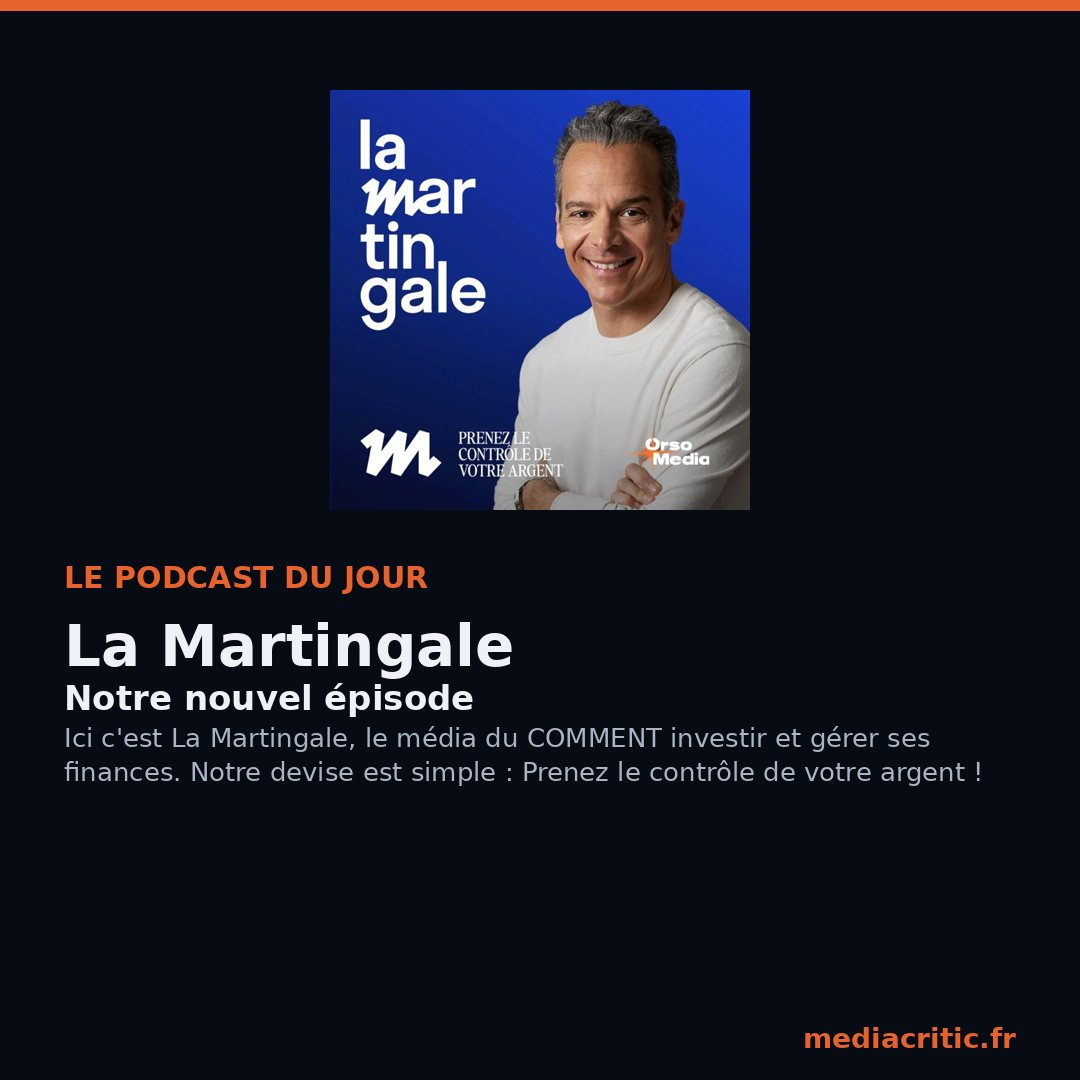
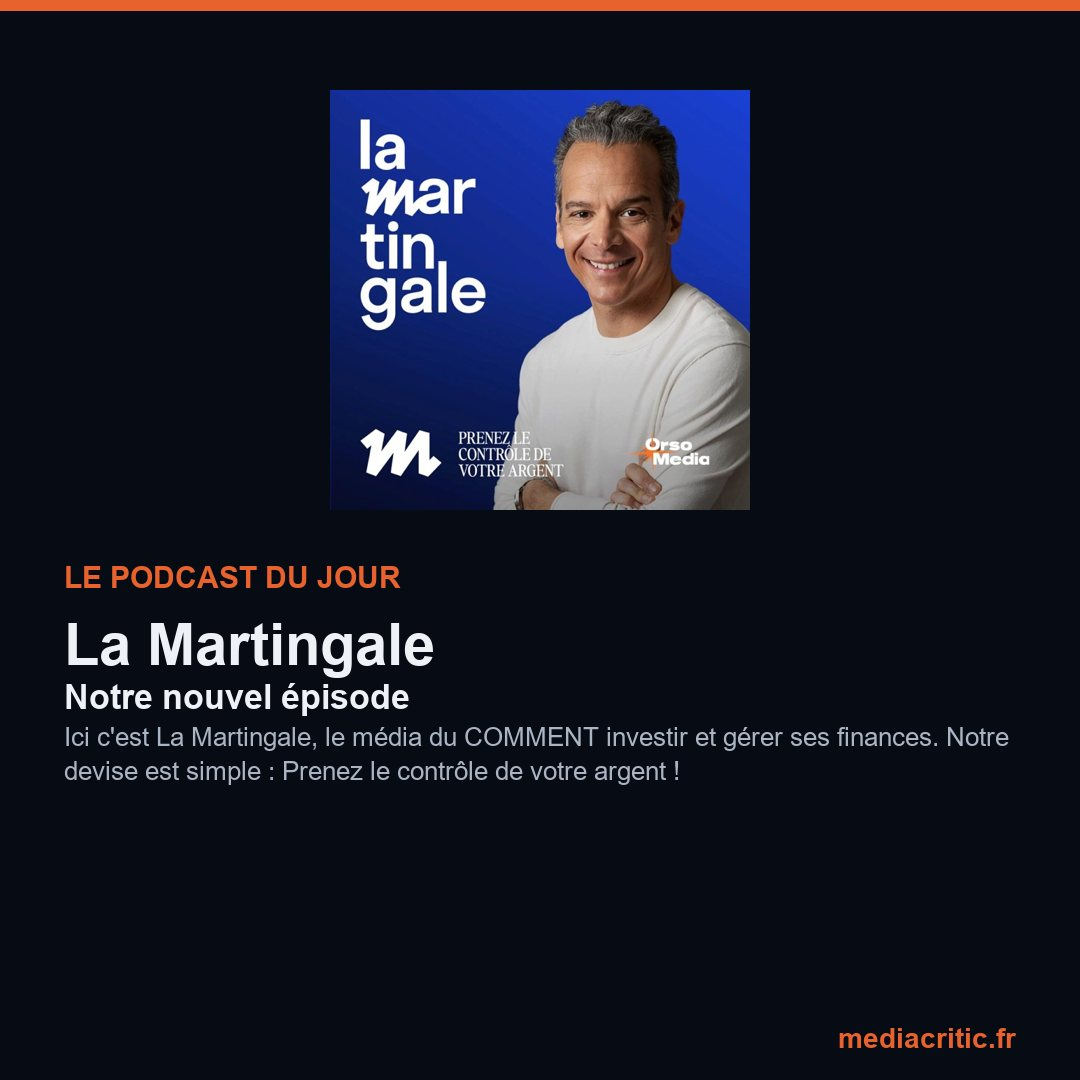
Podcast du jour : emission de l'episode 54

Changed region(s): [[0.0611, 0.5806, 0.9472, 0.7333], [0.0611, 0.5194, 0.3972, 0.55], [0.7333, 0.9472, 0.9472, 0.9778]]

diff --git a/podcast-du-jour.html b/podcast-du-jour.html
@@ -40,7 +40,7 @@ a{color:inherit}
 <p>Chaque jour, l'actu qui fait le buzz et l'émission de <a href="catalogue.html">notre
 annuaire</a> qui en parle : un podcast ou une chaîne YouTube francophone à écouter pour aller
 plus loin que les gros titres.</p>
-<section class="mcj-zone"><article class="mcj" aria-label="🔥 Le podcast du jour"><a class="mcj-cover" href="fiches/la-martingale.html"><img src="https://is1-ssl.mzstatic.com/image/thumb/Podcasts211/v4/5f/f7/ad/5ff7ad4f-8218-c9c9-c5d0-d15b05c9757d/mza_4765272428608991403.jpg/600x600bb.jpg" alt="La Martingale" width="160" height="160" loading="eager" decoding="async" /></a><div class="mcj-txt"><p class="mcj-eyebrow">🔥 Le podcast du jour · 15 novembre</p><h2 class="mcj-titre"><a href="fiches/la-martingale.html">La Martingale</a></h2><p class="mcj-labels"></p><div class="mcj-raisons"><p class="mcj-raisons-t">Pourquoi ce choix</p><div class="mcj-s"><p class="mcj-s-t">L&#x27;actu qui a fait le buzz</p><p class="mcj-s-p">Notre nouvel épisode sort aujourd&#x27;hui : l&#x27;épisode 54 de MediaCritic est consacré à La Martingale.</p></div><div class="mcj-s"><p class="mcj-s-t">L&#x27;émission</p><p class="mcj-s-p">La Martingale — podcast de Orso Media. Ici c&#x27;est La Martingale, le média du COMMENT investir et gérer ses finances. Notre devise est simple : Prenez le contrôle de votre argent !</p></div><div class="mcj-s"><p class="mcj-s-t">Pourquoi l&#x27;écouter</p><p class="mcj-s-p">Parce que nous venons de lui consacrer l&#x27;épisode 54 de MediaCritic, à écouter dès aujourd&#x27;hui.</p></div></div><div class="mcj-actions"><a class="mcj-btn mcj-btn-1" href="https://www.deezer.com/fr/episode/963336211" target="_blank" rel="noopener">▶ Notre critique</a><a class="mcj-btn" href="fiches/la-martingale.html">Voir la fiche</a></div></div></article></section>
+<section class="mcj-zone"><article class="mcj" aria-label="🔥 Le podcast du jour"><a class="mcj-cover" href="fiches/la-martingale.html"><img src="https://is1-ssl.mzstatic.com/image/thumb/Podcasts211/v4/5f/f7/ad/5ff7ad4f-8218-c9c9-c5d0-d15b05c9757d/mza_4765272428608991403.jpg/600x600bb.jpg" alt="La Martingale" width="160" height="160" loading="eager" decoding="async" /></a><div class="mcj-txt"><p class="mcj-eyebrow">🔥 Le podcast du jour · 15 novembre</p><h2 class="mcj-titre"><a href="fiches/la-martingale.html">La Martingale</a></h2><p class="mcj-labels"><span class="mcj-note">★ 8/10 MediaCritic</span></p><div class="mcj-raisons"><p class="mcj-raisons-t">Pourquoi ce choix</p><div class="mcj-s"><p class="mcj-s-t">L&#x27;actu qui a fait le buzz</p><p class="mcj-s-p">Notre nouvel épisode sort aujourd&#x27;hui : l&#x27;épisode 54 de MediaCritic est consacré à La Martingale.</p></div><div class="mcj-s"><p class="mcj-s-t">L&#x27;émission</p><p class="mcj-s-p">La Martingale — podcast de Orso Media. Ici c&#x27;est La Martingale, le média du COMMENT investir et gérer ses finances. Notre devise est simple : Prenez le contrôle de votre argent !</p></div><div class="mcj-s"><p class="mcj-s-t">Pourquoi l&#x27;écouter</p><p class="mcj-s-p">Parce que nous venons de lui consacrer l&#x27;épisode 54 de MediaCritic, à écouter dès aujourd&#x27;hui. Notre note : 8/10. Notre verdict : « Le podcast qui a rendu l&#x27;argent discutable à voix haute. Pas un conseil en investissement : un cours de vocabulaire. Et quand on comprend le vocabulaire, on se fait moins avoir. »</p></div></div><div class="mcj-actions"><a class="mcj-btn mcj-btn-1" href="https://www.mediacritic.fr/episodes/la-martingale.html" target="_blank" rel="noopener">▶ Notre critique</a><a class="mcj-btn" href="fiches/la-martingale.html">Voir la fiche</a></div></div></article></section>
 <section class="mcj-archive"><h2>Les sélections précédentes</h2><ol class="mcj-liste"><li class="mcj-l"><span class="mcj-l-date">14 novembre 2026</span><a href="fiches/rothen-s-enflamme.html">Rothen s&#x27;enflamme</a><span class="mcj-l-quoi">« Mauricio Pochettino » — LÉGENDE OU PAS LÉGENDE : MAURICIO POCHETTINO</span></li><li class="mcj-l"><span class="mcj-l-date">13 novembre 2026</span><a href="fiches/so-foot-arena.html">So Foot Arena</a><a class="mc-indep" href="podcasts-independants.html" title="Publié hors radios, presse, studios et institutions : voir le guide">Indépendant</a><span class="mcj-l-quoi">« Zinédine Zidane » — S03 - EP07 : Zinédine Zidane en état de grâce</span></li><li class="mcj-l"><span class="mcj-l-date">12 novembre 2026</span><a href="fiches/le-rendez-vous-tech.html">Le Rendez-vous Tech</a><a class="mc-indep" href="podcasts-independants.html" title="Publié hors radios, presse, studios et institutions : voir le guide">Indépendant</a><span class="mcj-l-quoi">« Jensen Huang » — Jensen Huang, l’agente qui m’aimait – RDV Tech</span></li><li class="mcj-l"><span class="mcj-l-date">11 novembre 2026</span><a href="fiches/les-nuits-du-cazarre-enchaine.html">Les nuits du Cazarre enchaîné</a><span class="mcj-l-quoi">« Teddy Riner » — Viens défier Cazarre du 10 novembre - Quiz Teddy Riner – 10/11</span></li><li class="mcj-l"><span class="mcj-l-date">10 novembre 2026</span><a href="fiches/les-gens-qui-doutent.html">Les Gens Qui Doutent</a><a class="mc-indep" href="podcasts-independants.html" title="Publié hors radios, presse, studios et institutions : voir le guide">Indépendant</a><span class="mcj-l-quoi">« Albert Dupontel » — Albert Dupontel : « La frustration d’un artiste, c’est de ressentir plus qu’il ne peut exprimer »</span></li><li class="mcj-l"><span class="mcj-l-date">9 novembre 2026</span><a href="fiches/notre-histoire.html">Notre Histoire</a><a class="mc-indep" href="podcasts-independants.html" title="Publié hors radios, presse, studios et institutions : voir le guide">Indépendant</a><span class="mcj-l-quoi">« Jean-Luc Mélenchon » — Jean-Luc Mélenchon et sa jeunesse : les coulisses d’un combat politique | Documentaire Politique AMP</span></li><li class="mcj-l"><span class="mcj-l-date">8 novembre 2026</span><a href="fiches/generation-do-it-yourself.html">Génération Do It Yourself</a><span class="mcj-l-quoi">MediaCritic, épisode 53</span></li><li class="mcj-l"><span class="mcj-l-date">7 novembre 2026</span><a href="fiches/le-kop-de-scipion.html">Le Kop de Scipion</a><a class="mc-indep" href="podcasts-independants.html" title="Publié hors radios, presse, studios et institutions : voir le guide">Indépendant</a><span class="mcj-l-quoi">« Pablo Pagis » — La liste des Bleus : grande première pour Pablo Pagis</span></li><li class="mcj-l"><span class="mcj-l-date">6 novembre 2026</span><a href="fiches/lionel.html">Lionel</a><a class="mc-indep" href="podcasts-independants.html" title="Publié hors radios, presse, studios et institutions : voir le guide">Indépendant</a><span class="mcj-l-quoi">« Cristiano Ronaldo » — Le mélange de Cristiano Ronaldo et Hello Kitty ça donne quoi ? 😱</span></li><li class="mcj-l"><span class="mcj-l-date">5 novembre 2026</span><a href="fiches/la-story-des-echos.html">La Story des Échos</a><span class="mcj-l-quoi">« Donald Trump » — Canada : pourquoi la guerre commerciale de Donald Trump freine les volontés d’indépendance</span></li><li class="mcj-l"><span class="mcj-l-date">4 novembre 2026</span><a href="fiches/torchon.html">Torchon</a><a class="mc-indep" href="podcasts-independants.html" title="Publié hors radios, presse, studios et institutions : voir le guide">Indépendant</a><span class="mcj-l-quoi">« Philippe Jaenada » — L&#x27;inconnue du quai de Javel - Philippe Jaenada</span></li><li class="mcj-l"><span class="mcj-l-date">3 novembre 2026</span><a href="fiches/l-il-de-philippe-caveriviere.html">L&#x27;œil de Philippe Caverivière</a><span class="mcj-l-quoi">« Sophie Adenot » — &quot;Sophie Adenot a passé huit mois dans l&#x27;espace...Tout ça pour revenir avec les mêmes phrases que Miss Auvergne&quot;</span></li><li class="mcj-l"><span class="mcj-l-date">2 novembre 2026</span><a href="fiches/geopolitique-profonde-www-geopolitique-profonde-com.html">GÉOPOLITIQUE PROFONDE (www.geopolitique-profonde.com)</a><a class="mc-indep" href="podcasts-independants.html" title="Publié hors radios, presse, studios et institutions : voir le guide">Indépendant</a><span class="mcj-l-quoi">« Christine Lagarde » — Démission de la BCE : ce que la CASTE vous CACHE sur CHRISTINE LAGARDE !</span></li><li class="mcj-l"><span class="mcj-l-date">1er novembre 2026</span><a href="fiches/jeanbapisteshow.html">JeanBaptisteShow</a><a class="mc-indep" href="podcasts-independants.html" title="Publié hors radios, presse, studios et institutions : voir le guide">Indépendant</a><span class="mcj-l-quoi">MediaCritic, épisode 52</span></li><li class="mcj-l"><span class="mcj-l-date">31 octobre 2026</span><a href="fiches/merci-remi.html">Merci Rémi !</a><a class="mc-indep" href="podcasts-independants.html" title="Publié hors radios, presse, studios et institutions : voir le guide">Indépendant</a><span class="mcj-l-quoi">« Halloween » — 👻 Halloween avec les parents</span></li><li class="mcj-l"><span class="mcj-l-date">30 octobre 2026</span><a href="fiches/entrez-dans-lhistoire.html">Entrez dans l&#x27;Histoire</a><span class="mcj-l-quoi">« Halloween » — Halloween : une histoire à faire peur</span></li><li class="mcj-l"><span class="mcj-l-date">29 octobre 2026</span><a href="fiches/zack.html">ZACK</a><a class="mc-indep" href="podcasts-independants.html" title="Publié hors radios, presse, studios et institutions : voir le guide">Indépendant</a><span class="mcj-l-quoi">« Harry Kane » — HARRY KANE BALLON D&#x27;OR !</span></li><li class="mcj-l"><span class="mcj-l-date">28 octobre 2026</span><a href="fiches/a-bientot-de-te-revoir.html">À bientôt de te revoir</a><a class="mc-indep" href="podcasts-independants.html" title="Publié hors radios, presse, studios et institutions : voir le guide">Indépendant</a><span class="mcj-l-quoi">Pépite indépendante</span></li><li class="mcj-l"><span class="mcj-l-date">27 octobre 2026</span><a href="fiches/lafter-foot.html">L&#x27;After Foot</a><span class="mcj-l-quoi">« Ballon d&#x27;or » — Le Top de l&#x27;After Foot : L&#x27;hommage de l&#x27;After au Ballon d&#x27;Or 2026 Harry Kane ! – 26/10</span></li><li class="mcj-l"><span class="mcj-l-date">26 octobre 2026</span><a href="fiches/raph-football.html">RAPH FOOTBALL</a><a class="mc-indep" href="podcasts-independants.html" title="Publié hors radios, presse, studios et institutions : voir le guide">Indépendant</a><span class="mcj-l-quoi">« Le Havre » — 🔵⚪ MARSEILLE - LE HAVRE / Ligue 1 Commentary 🎙</span></li><li class="mcj-l"><span class="mcj-l-date">25 octobre 2026</span><a href="fiches/les-grosses-tetes.html">Les Grosses Têtes</a><span class="mcj-l-quoi">« Laurent Nuñez » — FAKE NEWS - Apple, Laurent Nunez, manifestations... Quelle Grosse Tête dit vrai ?</span></li></ol></section>
 </main>
 <!-- mc-footer --><footer class="mcf"><div class="mcf-in"><div class="mcf-brand"><a class="mcf-logo" href="/"><img src="/assets/logo.png" alt="" width="28" height="28" /><span>MediaCritic</span></a><p>Le podcast qui donne son avis, même quand on ne lui a pas demandé, et l&#39;annuaire des podcasts et chaînes YouTube francophones.</p><div class="mcf-social"><a href="https://www.instagram.com/mediacritic.inc/" target="_blank" rel="noopener noreferrer" aria-label="Instagram"><svg aria-hidden="true" focusable="false" viewBox="0 0 24 24"><path d="M12 2.163c3.204 0 3.584.012 4.85.07 3.252.148 4.771 1.691 4.919 4.919.058 1.265.069 1.645.069 4.849 0 3.205-.012 3.584-.069 4.849-.149 3.225-1.664 4.771-4.919 4.919-1.266.058-1.644.07-4.85.07-3.204 0-3.584-.012-4.849-.07-3.26-.149-4.771-1.699-4.919-4.92-.058-1.265-.07-1.644-.07-4.849 0-3.204.013-3.583.07-4.849.149-3.227 1.664-4.771 4.919-4.919 1.266-.057 1.645-.069 4.849-.069zm0-2.163c-3.259 0-3.667.014-4.947.072-4.358.2-6.78 2.618-6.98 6.98-.059 1.281-.073 1.689-.073 4.948 0 3.259.014 3.668.072 4.948.2 4.358 2.618 6.78 6.98 6.98 1.281.058 1.689.072 4.948.072 3.259 0 3.668-.014 4.948-.072 4.354-.2 6.782-2.618 6.979-6.98.059-1.28.073-1.689.073-4.948 0-3.259-.014-3.667-.072-4.947-.196-4.354-2.617-6.78-6.979-6.98-1.281-.059-1.69-.073-4.949-.073zm0 5.838c-3.403 0-6.162 2.759-6.162 6.162s2.759 6.163 6.162 6.163 6.162-2.759 6.162-6.163c0-3.403-2.759-6.162-6.162-6.162zm0 10.162c-2.209 0-4-1.79-4-4 0-2.209 1.791-4 4-4s4 1.791 4 4c0 2.21-1.791 4-4 4zm6.406-11.845c-.796 0-1.441.645-1.441 1.44s.645 1.44 1.441 1.44c.795 0 1.439-.645 1.439-1.44s-.644-1.44-1.439-1.44z"/></svg></a><a href="https://www.tiktok.com/@mediacritic_le_podcast" target="_blank" rel="noopener noreferrer" aria-label="TikTok"><svg aria-hidden="true" focusable="false" viewBox="0 0 24 24"><path d="M19.59 6.69a4.83 4.83 0 0 1-3.77-4.25V2h-3.45v13.67a2.89 2.89 0 0 1-2.88 2.5 2.89 2.89 0 0 1-2.89-2.89 2.89 2.89 0 0 1 2.89-2.89c.28 0 .54.04.79.1V9.01a6.33 6.33 0 0 0-.79-.05 6.34 6.34 0 0 0-6.34 6.34 6.34 6.34 0 0 0 6.34 6.34 6.34 6.34 0 0 0 6.33-6.34V8.69a8.18 8.18 0 0 0 4.78 1.52V6.75a4.85 4.85 0 0 1-1.01-.06z"/></svg></a><a href="https://www.youtube.com/@MediaCriticInc" target="_blank" rel="noopener noreferrer" aria-label="YouTube"><svg aria-hidden="true" focusable="false" viewBox="0 0 24 24"><path d="M23.498 6.186a3.016 3.016 0 0 0-2.122-2.136C19.505 3.545 12 3.545 12 3.545s-7.505 0-9.377.505A3.017 3.017 0 0 0 .502 6.186C0 8.07 0 12 0 12s0 3.93.502 5.814a3.016 3.016 0 0 0 2.122 2.136c1.871.505 9.376.505 9.376.505s7.505 0 9.377-.505a3.015 3.015 0 0 0 2.122-2.136C24 15.93 24 12 24 12s0-3.93-.502-5.814zM9.545 15.568V8.432L15.818 12l-6.273 3.568z"/></svg></a><a href="https://x.com/MediaCriticInc" target="_blank" rel="noopener noreferrer" aria-label="X"><svg aria-hidden="true" focusable="false" viewBox="0 0 24 24"><path d="M18.244 2.25h3.308l-7.227 8.26 8.502 11.24H16.17l-4.714-6.231-5.401 6.231H2.746l7.73-8.835L1.254 2.25H8.08l4.253 5.622zm-1.161 17.52h1.833L7.084 4.126H5.117z"/></svg></a><a href="https://www.linkedin.com/in/mediacritic-le-podcast-b890743a1/" target="_blank" rel="noopener noreferrer" aria-label="LinkedIn"><svg aria-hidden="true" focusable="false" viewBox="0 0 24 24"><path d="M20.447 20.452h-3.554v-5.569c0-1.328-.027-3.037-1.852-3.037-1.853 0-2.136 1.445-2.136 2.939v5.667H9.351V9h3.414v1.561h.046c.477-.9 1.637-1.85 3.37-1.85 3.601 0 4.267 2.37 4.267 5.455v6.286zM5.337 7.433c-1.144 0-2.063-.926-2.063-2.065 0-1.138.92-2.063 2.063-2.063 1.14 0 2.064.925 2.064 2.063 0 1.139-.925 2.065-2.064 2.065zm1.782 13.019H3.555V9h3.564v11.452zM22.225 0H1.771C.792 0 0 .774 0 1.729v20.542C0 23.227.792 24 1.771 24h20.451C23.2 24 24 23.227 24 22.271V1.729C24 .774 23.2 0 22.222 0h.003z"/></svg></a></div></div><div><p class="mcf-t">MediaCritic</p><ul><li><a href="/catalogue.html">Annuaire</a></li><li><a href="/classement.html">Classement</a></li><li><a href="/podcasts-independants.html">Les indépendants</a></li><li><a href="/chaines-youtube.html">Chaînes YouTube</a></li><li><a href="/badges.html">Badges MediaCritic</a></li><li><a href="/podcast-du-jour.html">Le podcast du jour</a></li><li><a href="/palmares.html">Palmarès des critiques</a></li><li><a href="/comparer.html">Comparateur</a></li><li><a href="/qui-sommes-nous.html">L&#39;équipe</a></li><li><a href="/contact.html">Contact</a></li><li><a href="/mentions-legales.html">Mentions légales</a></li></ul></div><div><p class="mcf-t">Catégories</p><ul><li><a href="/categories/histoire.html">Histoire</a></li><li><a href="/categories/true-crime.html">True crime</a></li><li><a href="/categories/culture-societe.html">Culture & société</a></li><li><a href="/categories/sciences.html">Sciences</a></li><li><a href="/categories/tech.html">Tech</a></li><li><a href="/categories/gaming.html">Gaming</a></li><li><a href="/categories/cinema-series.html">Cinéma & séries</a></li><li><a href="/categories/musique.html">Musique</a></li><li><a href="/categories/humour.html">Humour</a></li><li><a href="/categories/sport.html">Sport</a></li><li><a href="/categories/business.html">Business</a></li><li><a href="/categories/cuisine-gastronomie.html">Cuisine</a></li><li><a href="/categories/voyage.html">Voyage</a></li></ul></div><div><p class="mcf-t">Écouter</p><ul><li><a href="https://open.spotify.com/show/5JuffYLQq1q6l7Vh2zvkrV" target="_blank" rel="noopener noreferrer">Spotify</a></li><li><a href="https://podcasts.apple.com/fr/podcast/mediacritic/id1853247643" target="_blank" rel="noopener noreferrer">Apple Podcasts</a></li><li><a href="https://www.deezer.com/fr/show/1002376672" target="_blank" rel="noopener noreferrer">Deezer</a></li><li><a href="https://www.youtube.com/@MediaCriticInc" target="_blank" rel="noopener noreferrer">YouTube</a></li></ul></div></div><div class="mcf-bas"><p>© 2026 MediaCritic · <a href="/contact.html">mediacriticinc@gmail.com</a></p><p id="footer-updated"></p></div></footer><!-- /mc-footer -->

diff --git a/kit-du-jour.html b/kit-du-jour.html
@@ -31,15 +31,15 @@ body{margin:0;background:var(--mc-bg);color:var(--mc-text)}
 <p>Page de travail de l'équipe (non référencée). Textes prêts à copier, visuels à télécharger.
 Chaque lien porte un marqueur de suivi par réseau, visible dans Google Analytics
 (campagne « du-jour »).</p>
-<article class="mcj" aria-label="🔥 Le podcast du jour"><a class="mcj-cover" href="fiches/la-martingale.html"><img src="https://is1-ssl.mzstatic.com/image/thumb/Podcasts211/v4/5f/f7/ad/5ff7ad4f-8218-c9c9-c5d0-d15b05c9757d/mza_4765272428608991403.jpg/600x600bb.jpg" alt="La Martingale" width="160" height="160" loading="eager" decoding="async" /></a><div class="mcj-txt"><p class="mcj-eyebrow">🔥 Le podcast du jour · 15 novembre</p><h2 class="mcj-titre"><a href="fiches/la-martingale.html">La Martingale</a></h2><p class="mcj-labels"></p><div class="mcj-raisons"><p class="mcj-raisons-t">Pourquoi ce choix</p><div class="mcj-s"><p class="mcj-s-t">L&#x27;actu qui a fait le buzz</p><p class="mcj-s-p">Notre nouvel épisode sort aujourd&#x27;hui : l&#x27;épisode 54 de MediaCritic est consacré à La Martingale.</p></div><div class="mcj-s"><p class="mcj-s-t">L&#x27;émission</p><p class="mcj-s-p">La Martingale — podcast de Orso Media. Ici c&#x27;est La Martingale, le média du COMMENT investir et gérer ses finances. Notre devise est simple : Prenez le contrôle de votre argent !</p></div><div class="mcj-s"><p class="mcj-s-t">Pourquoi l&#x27;écouter</p><p class="mcj-s-p">Parce que nous venons de lui consacrer l&#x27;épisode 54 de MediaCritic, à écouter dès aujourd&#x27;hui.</p></div></div><div class="mcj-actions"><a class="mcj-btn mcj-btn-1" href="https://www.deezer.com/fr/episode/963336211" target="_blank" rel="noopener">▶ Notre critique</a><a class="mcj-btn" href="fiches/la-martingale.html">Voir la fiche</a></div></div></article>
+<article class="mcj" aria-label="🔥 Le podcast du jour"><a class="mcj-cover" href="fiches/la-martingale.html"><img src="https://is1-ssl.mzstatic.com/image/thumb/Podcasts211/v4/5f/f7/ad/5ff7ad4f-8218-c9c9-c5d0-d15b05c9757d/mza_4765272428608991403.jpg/600x600bb.jpg" alt="La Martingale" width="160" height="160" loading="eager" decoding="async" /></a><div class="mcj-txt"><p class="mcj-eyebrow">🔥 Le podcast du jour · 15 novembre</p><h2 class="mcj-titre"><a href="fiches/la-martingale.html">La Martingale</a></h2><p class="mcj-labels"><span class="mcj-note">★ 8/10 MediaCritic</span></p><div class="mcj-raisons"><p class="mcj-raisons-t">Pourquoi ce choix</p><div class="mcj-s"><p class="mcj-s-t">L&#x27;actu qui a fait le buzz</p><p class="mcj-s-p">Notre nouvel épisode sort aujourd&#x27;hui : l&#x27;épisode 54 de MediaCritic est consacré à La Martingale.</p></div><div class="mcj-s"><p class="mcj-s-t">L&#x27;émission</p><p class="mcj-s-p">La Martingale — podcast de Orso Media. Ici c&#x27;est La Martingale, le média du COMMENT investir et gérer ses finances. Notre devise est simple : Prenez le contrôle de votre argent !</p></div><div class="mcj-s"><p class="mcj-s-t">Pourquoi l&#x27;écouter</p><p class="mcj-s-p">Parce que nous venons de lui consacrer l&#x27;épisode 54 de MediaCritic, à écouter dès aujourd&#x27;hui. Notre note : 8/10. Notre verdict : « Le podcast qui a rendu l&#x27;argent discutable à voix haute. Pas un conseil en investissement : un cours de vocabulaire. Et quand on comprend le vocabulaire, on se fait moins avoir. »</p></div></div><div class="mcj-actions"><a class="mcj-btn mcj-btn-1" href="https://www.mediacritic.fr/episodes/la-martingale.html" target="_blank" rel="noopener">▶ Notre critique</a><a class="mcj-btn" href="fiches/la-martingale.html">Voir la fiche</a></div></div></article>
 <section class="kit-b kit-tags"><h2>🏷 À taguer</h2><p>Aucun compte trouvé dans les sources officielles de l'émission (page YouTube, flux, site, description). Rien n'est deviné : à chercher à la main si besoin.</p></section>
 <section class="kit-b"><h2>✉ Message à l'émission (e-mail ou message privé)</h2><textarea readonly rows="12" id="t-msg">Bonjour,
 
-Petit mot pour vous prévenir : nous venons de consacrer un épisode de MediaCritic à La Martingale : https://www.deezer.com/fr/episode/963336211
+Petit mot pour vous prévenir : nous venons de consacrer un épisode de MediaCritic à La Martingale, avec une note de 8/10 : https://www.mediacritic.fr/episodes/la-martingale.html
 
 MediaCritic est un annuaire et un podcast de critiques des podcasts et chaînes YouTube francophones. Si ça vous fait plaisir, voici un badge à afficher sur votre site, votre page de liens ou la description de vos épisodes (code à coller) :
 
-&lt;a href=&quot;https://www.deezer.com/fr/episode/963336211&quot; title=&quot;La Martingale sur MediaCritic&quot;&gt;&lt;img src=&quot;https://www.mediacritic.fr/assets/badges/reference.svg&quot; alt=&quot;Référencé sur MediaCritic&quot; width=&quot;230&quot; height=&quot;64&quot; /&gt;&lt;/a&gt;
+&lt;a href=&quot;https://www.mediacritic.fr/episodes/la-martingale.html&quot; title=&quot;La Martingale sur MediaCritic&quot;&gt;&lt;img src=&quot;https://www.mediacritic.fr/assets/badges/note-la-martingale.svg&quot; alt=&quot;Critiqué par MediaCritic : 8/10&quot; width=&quot;250&quot; height=&quot;64&quot; /&gt;&lt;/a&gt;
 
 Belle journée,
 Alex &amp; Lolo — MediaCritic</textarea><button type="button" onclick="navigator.clipboard.writeText(document.getElementById('t-msg').value);this.textContent='Copié ✓'">Copier</button></section>

diff --git a/index.html b/index.html
@@ -441,7 +441,7 @@
 </div>
 
 <!-- du-jour -->
-<section class="mcj-zone" aria-label="Le podcast du jour"><article class="mcj" aria-label="🔥 Le podcast du jour"><a class="mcj-cover" href="fiches/la-martingale.html"><img src="https://is1-ssl.mzstatic.com/image/thumb/Podcasts211/v4/5f/f7/ad/5ff7ad4f-8218-c9c9-c5d0-d15b05c9757d/mza_4765272428608991403.jpg/600x600bb.jpg" alt="La Martingale" width="160" height="160" loading="eager" decoding="async" /></a><div class="mcj-txt"><p class="mcj-eyebrow">🔥 Le podcast du jour · 15 novembre</p><h2 class="mcj-titre"><a href="fiches/la-martingale.html">La Martingale</a></h2><p class="mcj-labels"></p><div class="mcj-raisons"><p class="mcj-raisons-t">Pourquoi ce choix</p><div class="mcj-s"><p class="mcj-s-t">L&#x27;actu qui a fait le buzz</p><p class="mcj-s-p">Notre nouvel épisode sort aujourd&#x27;hui : l&#x27;épisode 54 de MediaCritic est consacré à La Martingale.</p></div><div class="mcj-s"><p class="mcj-s-t">L&#x27;émission</p><p class="mcj-s-p">La Martingale — podcast de Orso Media. Ici c&#x27;est La Martingale, le média du COMMENT investir et gérer ses finances. Notre devise est simple : Prenez le contrôle de votre argent !</p></div><div class="mcj-s"><p class="mcj-s-t">Pourquoi l&#x27;écouter</p><p class="mcj-s-p">Parce que nous venons de lui consacrer l&#x27;épisode 54 de MediaCritic, à écouter dès aujourd&#x27;hui.</p></div></div><div class="mcj-actions"><a class="mcj-btn mcj-btn-1" href="https://www.deezer.com/fr/episode/963336211" target="_blank" rel="noopener">▶ Notre critique</a><a class="mcj-btn" href="fiches/la-martingale.html">Voir la fiche</a><a class="mcj-btn mcj-btn-lien" href="podcast-du-jour.html">Les sélections précédentes →</a></div></div></article></section>
+<section class="mcj-zone" aria-label="Le podcast du jour"><article class="mcj" aria-label="🔥 Le podcast du jour"><a class="mcj-cover" href="fiches/la-martingale.html"><img src="https://is1-ssl.mzstatic.com/image/thumb/Podcasts211/v4/5f/f7/ad/5ff7ad4f-8218-c9c9-c5d0-d15b05c9757d/mza_4765272428608991403.jpg/600x600bb.jpg" alt="La Martingale" width="160" height="160" loading="eager" decoding="async" /></a><div class="mcj-txt"><p class="mcj-eyebrow">🔥 Le podcast du jour · 15 novembre</p><h2 class="mcj-titre"><a href="fiches/la-martingale.html">La Martingale</a></h2><p class="mcj-labels"><span class="mcj-note">★ 8/10 MediaCritic</span></p><div class="mcj-raisons"><p class="mcj-raisons-t">Pourquoi ce choix</p><div class="mcj-s"><p class="mcj-s-t">L&#x27;actu qui a fait le buzz</p><p class="mcj-s-p">Notre nouvel épisode sort aujourd&#x27;hui : l&#x27;épisode 54 de MediaCritic est consacré à La Martingale.</p></div><div class="mcj-s"><p class="mcj-s-t">L&#x27;émission</p><p class="mcj-s-p">La Martingale — podcast de Orso Media. Ici c&#x27;est La Martingale, le média du COMMENT investir et gérer ses finances. Notre devise est simple : Prenez le contrôle de votre argent !</p></div><div class="mcj-s"><p class="mcj-s-t">Pourquoi l&#x27;écouter</p><p class="mcj-s-p">Parce que nous venons de lui consacrer l&#x27;épisode 54 de MediaCritic, à écouter dès aujourd&#x27;hui. Notre note : 8/10. Notre verdict : « Le podcast qui a rendu l&#x27;argent discutable à voix haute. Pas un conseil en investissement : un cours de vocabulaire. Et quand on comprend le vocabulaire, on se fait moins avoir. »</p></div></div><div class="mcj-actions"><a class="mcj-btn mcj-btn-1" href="https://www.mediacritic.fr/episodes/la-martingale.html" target="_blank" rel="noopener">▶ Notre critique</a><a class="mcj-btn" href="fiches/la-martingale.html">Voir la fiche</a><a class="mcj-btn mcj-btn-lien" href="podcast-du-jour.html">Les sélections précédentes →</a></div></div></article></section>
 <!-- /du-jour -->
 
 <!-- SEARCH + FILTERS -->
